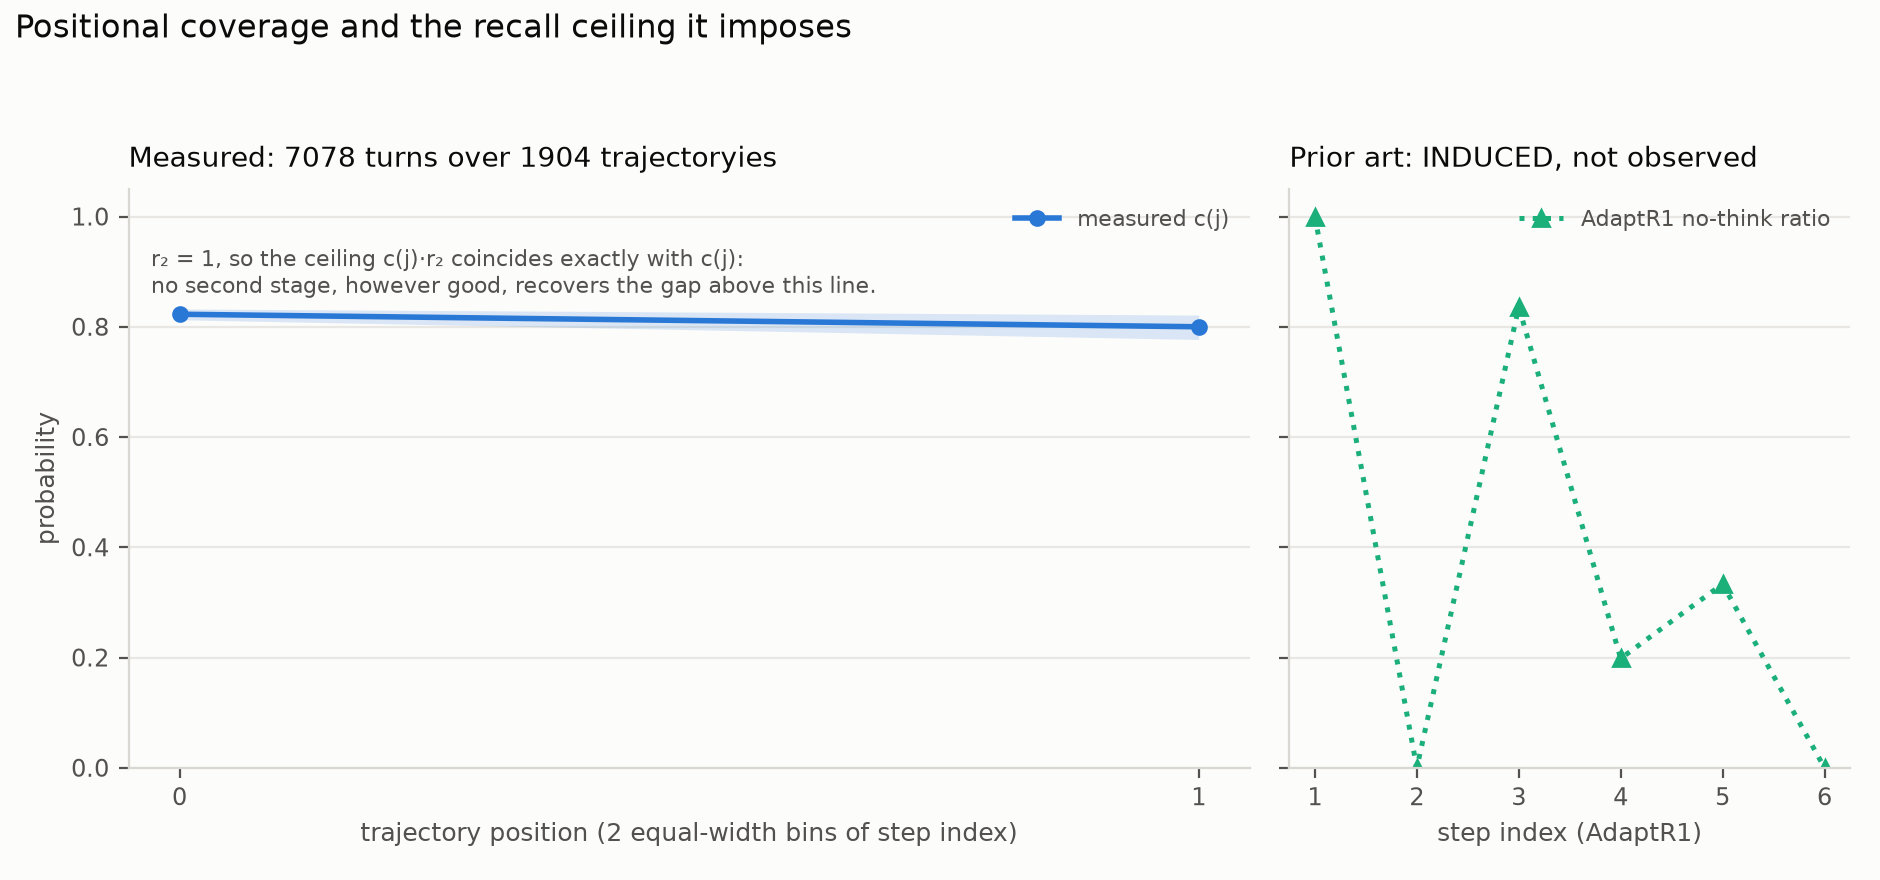
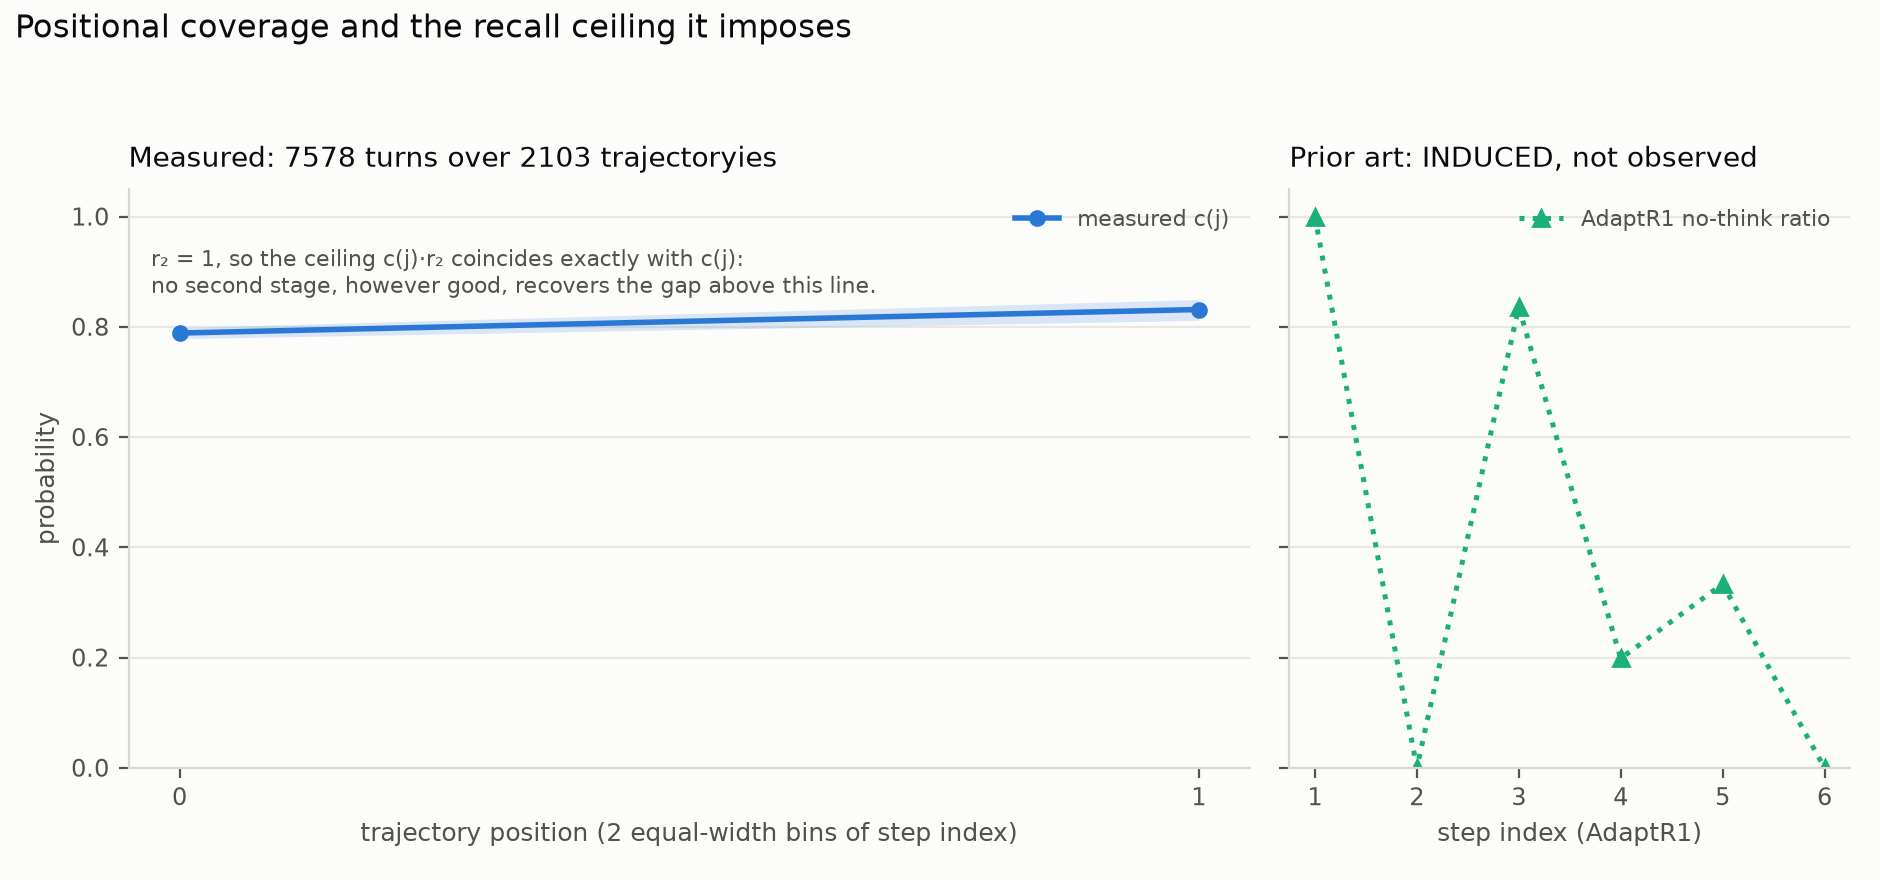
the within-model control is complete and symmetric
deepseek-v3.2 reasoning-on finished. Both arms now 4/4 logs, 1,013/1,013
samples, 1,263 assistant turns, identical sample ids:

  default (reasoning_tokens unset)  0.0000 [0.0000, 0.0030]        0 reasoning tokens
  --reasoning-tokens 2048           0.9802 [0.9709, 0.9866]  539,635 reasoning tokens

Disjoint intervals, margin 0.97, one request parameter between them. The
objection session 2 raised against its own headline is now answered by a
matched within-model comparison rather than by a probe.

Added what the pair does NOT show, because it is the obvious over-read: it
establishes that visibility is set by the request for THIS model on THESE
benchmarks. It does not establish that every provider honours such a request.
gpt-5-nano is the counter-case and is still only a probe - and until its three
effort arms finish, this project has no complete arm exhibiting REDACTED and
no reasoning_effort axis at all.

6 of 9 arms, 7,578 turns. 187 tests pass.

Changed region(s): [[0.0926, 0.3375, 0.3702, 0.3989], [0.4011, 0.3375, 0.6479, 0.3989], [0.2777, 0.1534, 0.3085, 0.1841]]

diff --git a/RESULTS_SUMMARY.md b/RESULTS_SUMMARY.md
@@ -71,7 +71,7 @@ OpenRouter, 2026-09-12/13. Sample counts match §1 exactly so the two are
 comparable. Scoring disabled: we measure the channel, not performance.
 
 <!-- BEGIN:reasoning-status -->
-**5 of 9 arms complete**, 6,315 assistant turns measured. `MIN_CELL_N=30`; no cell is low-n. 0 sample(s) errored; 1 incomplete log(s) excluded and counted. Partially run, excluded from the table: `deepseek-v3.2-reasoning-on`. Not yet run: `gpt-5-nano-low`, `gpt-5-nano-medium`, `gpt-5-nano-high`.
+**6 of 9 arms complete**, 7,578 assistant turns measured. `MIN_CELL_N=30`; no cell is low-n. 0 sample(s) errored; 1 incomplete log(s) excluded and counted. Partially run, excluded from the table: `gpt-5-nano-low`. Not yet run: `gpt-5-nano-medium`, `gpt-5-nano-high`.
 <!-- END:reasoning-status -->
 
 Arms below are complete. Pending arms are **not** included in any figure or
@@ -88,6 +88,7 @@ the n actually measured.
 | `glm-4.7-flash` | 1,263 | **0.9976** | [0.9930, 0.9992] | 0.0000 | 0.0000 | 0.0024 |
 | `claude-haiku-4.5` | 1,263 | **1.0000** | [0.9970, 1.0000] | 0.0000 | 0.0000 | 0.0000 |
 | `deepseek-v3.2` | 1,263 | **0.0000** | [0.0000, 0.0030] | 0.0000 | 0.0000 | 1.0000 |
+| `deepseek-v3.2-reasoning-on` | 1,263 | **0.9802** | [0.9709, 0.9866] | 0.0000 | 0.0000 | 0.0198 |
 <!-- END:reasoning-arms -->
 
 Zero samples errored. Incomplete logs are excluded and counted, not partially
@@ -107,7 +108,7 @@ here.
 |---|---|---|
 | Llama-3.1-8B, Qwen2.5-7B, Ministral-8B (vLLM) | 3,789 | **0.0000** |
 | **`deepseek-v3.2`, reasoning NOT requested** | **1,263** | **0.0000** [0.0000, 0.0030] |
-| **`deepseek-v3.2`, reasoning REQUESTED** | 763 so far | **0.9777** [0.9646, 0.9860] |
+| **`deepseek-v3.2`, reasoning REQUESTED** | **1,263** | **0.9802** [0.9709, 0.9866] |
 | `gpt-oss-120b` | 1,263 | **1.0000** |
 | `qwen3-32b` | 1,263 | **1.0000** |
 | `claude-haiku-4.5` | 1,263 | **1.0000** |
@@ -116,10 +117,11 @@ here.
 
 **This is the result the baseline alone could not support.** A reviewer reading
 §1 could fairly object that 0/3,789 was measured on models that were never going
-to emit reasoning. The DeepSeek pair answers that directly: **same model, same
-prompts, same provider, one request parameter** — 0.000 with reasoning not
-requested, 0.978 with it requested. "This model emits no reasoning" was really
-"this request did not ask for it."
+to emit reasoning. The DeepSeek pair answers that directly and is now a
+**complete, symmetric, within-model comparison**: same model, same provider,
+same benchmarks, same 1,013 sample ids, 1,263 turns on each side — **0.0000 with
+reasoning not requested, 0.9802 with it requested.** "This model emits no
+reasoning" was really "this request did not ask for it."
 
 And `gpt-5-nano` demonstrably reasons (64 reasoning tokens on the probe) while
 shipping the chain encrypted, so an external evaluator receives nothing readable.
@@ -134,7 +136,11 @@ by whether the request asked for reasoning:
 | configuration | n turns | raw_present | 95% CI | absent | reasoning tokens |
 |---|---|---|---|---|---|
 | default (`reasoning_tokens` unset) | 1,263 | **0.0000** | [0.0000, 0.0030] | 1.0000 | **0** |
-| `--reasoning-tokens 2048` | 763 so far | **0.9777** | [0.9646, 0.9860] | 0.0223 | 150,187 |
+| `--reasoning-tokens 2048` | 1,263 | **0.9802** | [0.9709, 0.9866] | 0.0198 | **539,635** |
+
+Both arms are complete: 4 of 4 task logs, 1,013 of 1,013 samples, identical
+sample ids, 1,263 assistant turns each. The intervals are disjoint by a margin
+of 0.97.
 
 Same model, same prompts, same provider, same benchmarks, same sample ids.
 **One request parameter.** The default arm emitted *zero* reasoning tokens
@@ -145,12 +151,18 @@ So "this model does not expose reasoning" was never a fact about the model. It
 was a fact about the request. **Whether an evaluator can read an agent's
 deliberation is a configuration and disclosure choice, which is H1.**
 
-> **What is still incomplete.** The default arm is a complete 1,263-turn arm.
-> The reasoning-requested arm is at 763 of 1,263 turns because its sycophancy
-> task is re-running; its rate is stable across the three completed tasks
-> (0.971–0.982) but the pair is not yet symmetric. The `gpt-5-nano` row remains
-> a **single-prompt probe** and is labelled as such. Neither the partial arm nor
-> the probe enters the generated table above, which contains complete arms only.
+> **What is still incomplete.** The DeepSeek pair is complete. The `gpt-5-nano`
+> row remains a **single-prompt probe** and is labelled as such — its three
+> effort arms are still running, and until they finish this project has **no
+> complete arm exhibiting `redacted`**, and no `reasoning_effort` axis. The
+> probe does not enter the generated table above, which contains complete arms
+> only.
+>
+> Note also what the DeepSeek pair does **not** show. It establishes that
+> visibility is set by the request for *this* model on *these* benchmarks. It
+> does not establish that every provider honours such a request, nor that a
+> provider which emits reasoning will keep doing so; `gpt-5-nano` is the
+> counter-case, and it is still only a probe.
 
 ### `reasoning_effort` — still not measured
 
